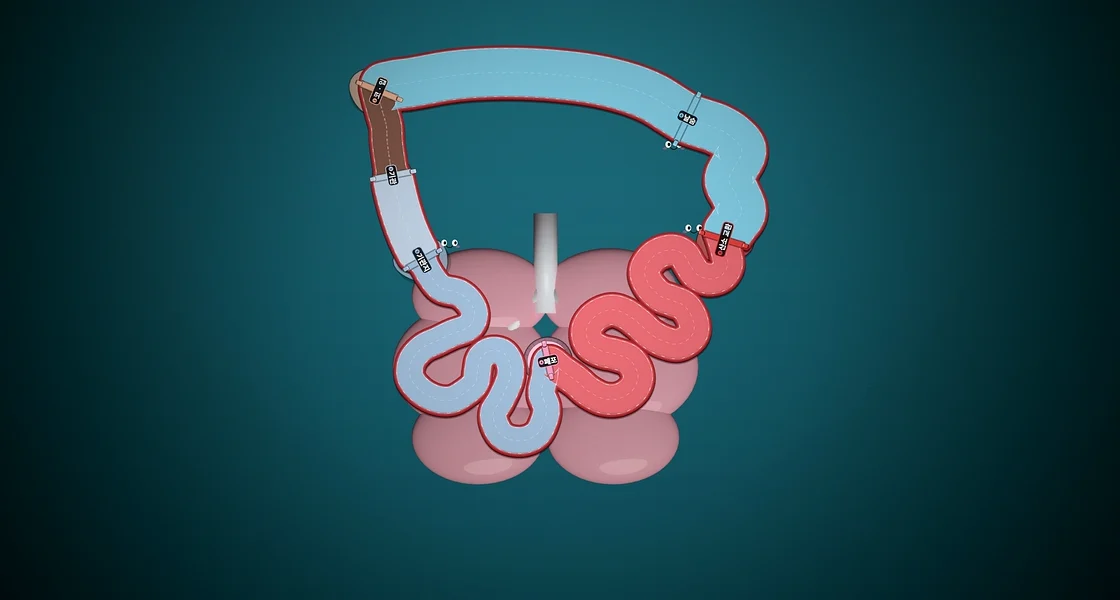
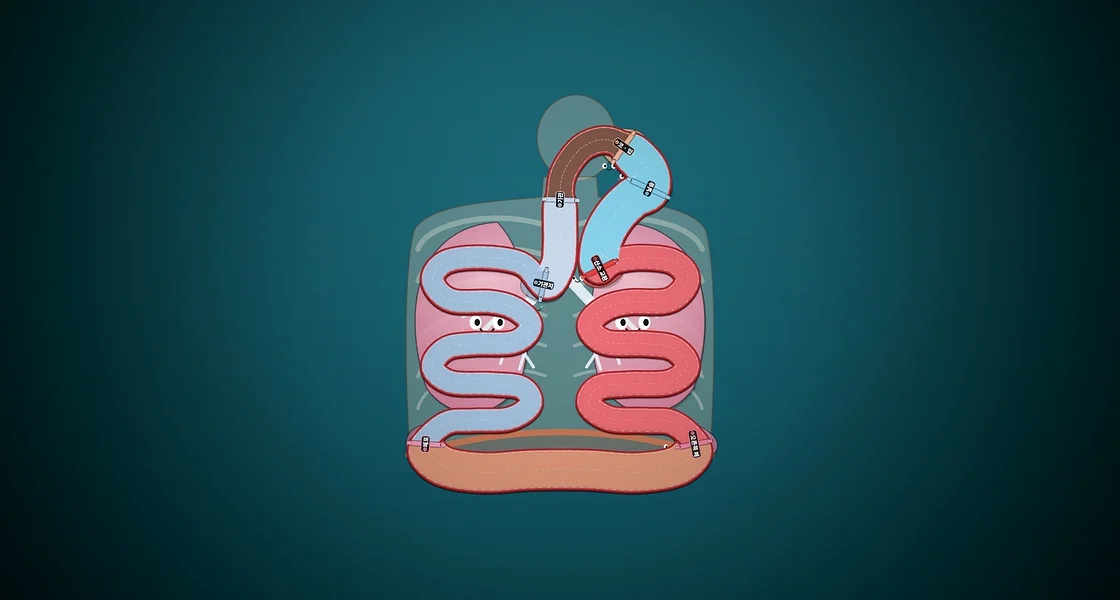
버전 115

Changed region(s): [[0.3125, 0.06, 0.6875, 0.84]]

diff --git a/index.html b/index.html
@@ -2105,6 +2105,15 @@ Object.assign(EN, {
 '남은 물을 빨아들이고 나머지를 내보냅니다.': 'It absorbs the remaining water and sends the rest out.',
 
 // ── 호흡계
+'왼쪽 세기관지': 'Left bronchioles', '공기주머니': 'Air sacs', '가로막': 'Diaphragm', '오른쪽 폐': 'Right lung', '코로 나감': 'Out through the nose',
+'왼쪽 폐 속으로 갈라지며 파고드는 가는 길': 'A narrow path branching deep into the left lung',
+'포도송이 모양의 작은 공기주머니. 폐 하나에 수억 개가 있어 표면적이 아주 넓습니다.': 'Tiny grape-like air sacs. Each lung has hundreds of millions, so the surface area is huge.',
+'폐 아래의 돔 모양 근육. 들숨에 내려가고 날숨에 올라갑니다': 'The dome-shaped muscle under the lungs. It moves down as you breathe in and up as you breathe out',
+'오른쪽 폐는 세 덩어리, 왼쪽 폐는 심장 자리 때문에 두 덩어리로 조금 작습니다.': 'The right lung has three lobes; the left has two and is a little smaller to make room for the heart.',
+'폐포 송이송이를 그물처럼 감고 올라가는 아주 가는 혈관': 'Tiny blood vessels wrapping the air sacs like a net as you climb',
+'연골 고리가 받쳐 주어 찌그러지지 않는 곧은 공기 길': 'A straight airway held open by rings of cartilage',
+'기관이 좌우 폐로 갈라지는 지점. 여기서부터 나뭇가지처럼 점점 가늘어집니다.': 'Where the trachea splits toward both lungs. From here it branches like a tree and gets narrower.',
+'가로막은 올라가고 갈비뼈는 내려가며 가슴 속 공간이 좁아져 공기가 밀려 나갑니다.': 'The diaphragm rises and the ribs drop, so the chest gets smaller and air is pushed out.',
 '산소와 이산화탄소가 교환되는 곳은?': 'Where are oxygen and carbon dioxide exchanged?',
 '표면적이 아주 넓어 기체 교환에 유리합니다.': 'Their huge surface area makes gas exchange easy.',
 '들숨을 쉴 때 가로막은?': 'When you breathe in, the diaphragm...',
@@ -2209,6 +2218,16 @@ Object.assign(EN, {
    맨 위가 지금 판이다. 아래 CHANGES[0].v 가 화면 왼쪽 아래 숫자가 된다 —
    판을 올릴 때는 여기 한 줄만 새로 얹으면 된다. */
 const CHANGES = [
+    { v: 115, d: '9월 11일', t: [
+        '호흡계 서킷을 새로 만들었다 — 교과서 그림처럼 코 → 기관 → 기관지 → 왼쪽 폐 → 가로막 → 오른쪽 폐 → 날숨',
+        'Respiratory circuit rebuilt like the textbook picture: nose, trachea, bronchi, left lung, diaphragm, right lung, exhale',
+        '숨을 쉬면 폐가 부풀고, 가로막이 내려가고, 갈비뼈가 올라간다',
+        'As it breathes, the lungs inflate, the diaphragm moves down and the ribs rise',
+        '너무 꼬불거리던 길을 정리했다 — 폐 속만 지그재그, 기관 · 가로막 · 날숨 길은 시원하게',
+        'Much less twisty: zigzags only inside the lungs, with open straights elsewhere',
+        '날숨 설명을 바로잡았다 — 날숨에 갈비뼈는 내려간다',
+        'Fixed the exhale explanation: the ribs move down when you breathe out'
+    ] },
     { v: 114, d: '9월 11일', t: [
         '신경 · 백혈구 · 산소 · ATP · DNA 카트를 가상 팀 포뮬러카로 바꿨다 — 실제 차를 닮은 그림을 뺐다',
         'Nerve, White Blood Cell, Oxygen, ATP and DNA karts are now fictional formula cars (no real-car look-alikes)',
@@ -2736,70 +2755,70 @@ const SYSTEMS = {
            코스 자체는 급커브 35% 로 이미 촘촘해서, 굽이를 더 넣는 대신 바퀴로 맞춘다. */
         id: 'respiratory', name: '호흡계 서킷', laps: 5, closed: true, halfWidth: 182,
         grass: ['#2c7484', '#1c5563'], accent: '#8fd0e8',
-        // 숨의 길 : 들숨은 갈수록 좁아지고(코→기관→기관지→세기관지),
-        //           폐포 그물에서 실컷 감았다가, 날숨은 시원하게 뻗어 나간다.
+        /* 2026-09-11 다시 만듦 — 사용자가 준 교과서 그림(몸 앞모습 : 코 · 기관 · 기관지 · 폐 · 가로막) 그대로.
+           코로 들어와 기관을 곧게 내려가고, 기관지에서 왼쪽 폐로 들어가 세기관지를 지그재그로 내려간 뒤,
+           가로막을 따라 오른쪽 폐로 건너가 폐포 모세혈관을 타고 올라가 산소를 바꾸고, 날숨 길로 코에 돌아온다.
+           예전 코스는 방향 전환 44번(순환계 18번)으로 너무 꼬불거렸다 — 폐 안만 지그재그, 나머지는 시원하게.
+           좌표 기준 : 몸 가운데 x = 2200. 왼쪽 폐 x 700~1950, 오른쪽 폐 x 2450~3700, 폐 y 1500~3650, 가로막 길 y ≈ 4000. */
         landmarks: [
-            { type: 'lungs', at: [2100, 2900], r: 1150 }
+            { type: 'chest', at: [2200, 2300], r: 2100 }
         ],
         flow: [
-            { name: '코 · 입', at: [640, 520], color: '#f0b8a0', role: '공기 흡입', blob: 260,
+            { name: '코 · 입', at: [2900, 620], color: '#f0b8a0', role: '공기 흡입', blob: 260,
               info: '코털과 점액이 먼지를 거르고, 공기를 따뜻하고 촉촉하게 만들어 줍니다.',
               seg: { name: '인두 · 후두', color: '#e0a68e', wMul: .72, tunnel: true,
                      desc: '목구멍의 좁은 통로. 음식은 식도로, 공기는 기관으로 갈라집니다' },
-              via: [[666, 670], [707, 820], [716, 963], [736, 1116]] },
+              via: [[2700, 540], [2480, 600], [2320, 760], [2220, 960]] },
 
-            { name: '기관', at: [760, 1260], color: '#c9d6e8', role: '공기 길', blob: 0,
+            { name: '기관', at: [2200, 1200], color: '#c9d6e8', role: '공기 길', blob: 0,
               chamber: { w: 260, h: 250, wall: 44, tint: '#dce6f2' },
               pump: { power: .6, label: '들숨!', desc: '가로막이 내려가며 공기가 쑥 빨려 들어옵니다.' },
               info: '고리 모양 연골이 있어 눌려도 찌그러지지 않는 튼튼한 공기 통로입니다.',
               seg: { name: '기관', color: '#c9d6e8', wMul: .95,
-                     desc: '연골 고리가 받쳐 주어 절대 찌그러지지 않는 공기 길' },
-              via: [[794, 1417], [834, 1569], [886, 1724], [949, 1868]] },
+                     desc: '연골 고리가 받쳐 주어 찌그러지지 않는 곧은 공기 길' },
+              via: [[2200, 1450], [2200, 1700], [2170, 1930]] },
 
-            { name: '기관지', at: [1020, 2000], color: '#a8c0da', role: '좌우 분기', blob: 240,
-              info: '기관이 좌우 폐로 갈라지는 지점. 여기서부터 점점 가늘어집니다.',
-              seg: { name: '세기관지', color: '#a8c0da', wMul: .62,
-                     desc: '나뭇가지처럼 자꾸 갈라지며 점점 가늘어지는 길' },
-              /* 이웃 고리끼리 도로 폭보다 가까웠던 것을 벌렸다 (relax.js, 겹침 1289 → 0). */
-              via: [[1100, 2143], [1191, 2246], [1343, 2287], [1439, 2370], [1480, 2473],
-                    [1431, 2582], [1281, 2643], [1159, 2702], [1029, 2764], [930, 2877],
-                    [916, 3019], [1004, 3138], [1138, 3212], [1276, 3222], [1397, 3157],
-                    [1486, 3074], [1505, 2966], [1529, 2858], [1617, 2793], [1726, 2809],
-                    [1788, 2900], [1793, 3010], [1759, 3114], [1699, 3237], [1643, 3335],
-                    [1666, 3454], [1742, 3550], [1894, 3578], [2025, 3521], [2093, 3389],
-                    [2106, 3280], [2065, 3163], [2092, 3021]] },
+            { name: '기관지', at: [2020, 2130], color: '#a8c0da', role: '좌우 분기', blob: 240,
+              info: '기관이 좌우 폐로 갈라지는 지점. 여기서부터 나뭇가지처럼 점점 가늘어집니다.',
+              seg: { name: '왼쪽 세기관지', color: '#a8c0da', wMul: .62,
+                     desc: '왼쪽 폐 속으로 갈라지며 파고드는 가는 길' },
+              /* 판 시간 140초로 짧고 밋밋했다(순환계 187초) → 세 번이던 지그재그를 다섯 번으로. 줄 간격 ≈ 440 (도로 폭 226) */
+              via: [[1780, 1900], [1350, 1830], [950, 1880], [800, 2080], [1000, 2300],
+                    [1450, 2320], [1720, 2400], [1880, 2580], [1700, 2760], [1250, 2780],
+                    [950, 2830], [800, 3030], [1000, 3200], [1450, 3220], [1780, 3260],
+                    [1880, 3440], [1650, 3600], [1250, 3620], [950, 3650]] },
 
-            { name: '폐포', at: [2120, 2880], color: '#f2a0c0', role: '기체 교환', blob: 0,
+            { name: '폐포', at: [720, 3880], color: '#f2a0c0', role: '공기주머니', blob: 0,
               chamber: { w: 360, h: 350, wall: 34, tint: '#f7b8d0' },
-              info: '포도송이 모양의 작은 공기주머니. 여기서 산소와 이산화탄소가 자리를 바꿉니다.',
-              seg: { oxygen: true, name: '폐포 모세혈관', color: '#e2707a', wMul: .7,
-                     desc: '폐포 송이송이를 그물처럼 감고 도는 아주 가는 혈관' },
-              // 포도송이를 하나하나 감아 도는 그물망 — 이 코스에서 드리프트가 가장 많이 나오는 구간
-              /* 이웃 고리끼리 도로 폭보다 가까웠던 것을 벌렸다 (relax.js, 겹침 1289 → 0). */
-              via: [[2244, 2967], [2368, 3055], [2475, 3146], [2611, 3212], [2752, 3207],
-                    [2869, 3126], [2907, 3000], [2837, 2873], [2710, 2822], [2589, 2794],
-                    [2482, 2726], [2457, 2602], [2533, 2491], [2668, 2434], [2793, 2466],
-                    [2914, 2551], [3019, 2647], [3144, 2713], [3268, 2733], [3380, 2657],
-                    [3395, 2545], [3323, 2408], [3202, 2352], [3096, 2310], [2997, 2202],
-                    [2967, 2079], [3057, 1957], [3196, 1910], [3303, 1948], [3362, 2041],
-                    [3428, 2129], [3532, 2164], [3638, 2133], [3693, 2038], [3676, 1929]] },
+              info: '포도송이 모양의 작은 공기주머니. 폐 하나에 수억 개가 있어 표면적이 아주 넓습니다.',
+              seg: { name: '가로막', color: '#d99a82', wMul: 1.1,
+                     desc: '폐 아래의 돔 모양 근육. 들숨에 내려가고 날숨에 올라갑니다' },
+              /* 폐 맨 아랫줄과 가로막 길 사이가 380 이라 양쪽 모서리가 급한 머리핀이 되어 길이 접혔다(갇힘 1, 게이트 10/15)
+                 → 가로막 길을 내려 간격 510, 모서리 지점을 바깥 아래로 빼서 크게 돈다 */
+              via: [[900, 4110], [1350, 4190], [1900, 4160], [2500, 4160], [3050, 4190], [3500, 4110]] },
 
-            { name: '산소 교환', at: [3660, 1820], color: '#e04a4a', role: '혈액에 전달', blob: 250,
+            { name: '오른쪽 폐', at: [3680, 3880], color: '#e88aa8', role: '오른쪽 폐', blob: 240,
+              info: '오른쪽 폐는 세 덩어리, 왼쪽 폐는 심장 자리 때문에 두 덩어리로 조금 작습니다.',
+              seg: { oxygen: true, name: '폐포 모세혈관', color: '#e2707a', wMul: .66,
+                     desc: '폐포 송이송이를 그물처럼 감고 올라가는 아주 가는 혈관' },
+              via: [[3450, 3650], [3150, 3620], [2750, 3600], [2520, 3440], [2620, 3260], [2950, 3220],
+                    [3400, 3200], [3600, 3030], [3450, 2830], [3150, 2780], [2700, 2760],
+                    [2520, 2580], [2680, 2400], [2950, 2320], [3400, 2300], [3600, 2080],
+                    [3450, 1880], [3100, 1830], [2800, 1870]] },
+
+            { name: '산소 교환', at: [2640, 1960], color: '#e04a4a', role: '혈액에 전달', blob: 250,
               info: '산소는 혈액으로, 이산화탄소는 폐포로. 농도 차이 때문에 저절로 이동합니다.',
               seg: { name: '날숨 통로', color: '#8fd0e8', wMul: 1.15,
                      desc: '이산화탄소를 실은 공기가 시원하게 빠져나가는 넓은 길' },
-              via: [[3740, 1690], [3814, 1573], [3763, 1430], [3703, 1300], [3755, 1179],
-                   [3817, 1041], [3733, 931], [3608, 853], [3475, 807]] },
+              via: [[2660, 1650], [2800, 1380], [3000, 1180]] },
 
-            { name: '날숨', at: [3340, 760], color: '#8fd0e8', role: '이산화탄소 배출', blob: 250,
+            /* 날숨 설명을 바로잡았다 : 예전 글은 '가로막과 갈비뼈가 올라가며' — 날숨에 갈비뼈는 내려간다 */
+            { name: '날숨', at: [3180, 1080], color: '#8fd0e8', role: '이산화탄소 배출', blob: 250,
               pump: { power: 1, label: '날숨! 후—', desc: '가로막이 올라가며 가슴이 좁아져 공기가 힘차게 밀려 나갑니다.' },
-              info: '가로막과 갈비뼈가 올라가며 가슴 속 공간이 좁아져 공기가 밀려 나갑니다.',
-              seg: { name: '기도 복귀', color: '#8fd0e8', wMul: 1.15,
+              info: '가로막은 올라가고 갈비뼈는 내려가며 가슴 속 공간이 좁아져 공기가 밀려 나갑니다.',
+              seg: { name: '코로 나감', color: '#8fd0e8', wMul: 1.15,
                      desc: '숨을 내쉬고 나면 다시 들이마실 차례. 숨은 쉬지 않고 반복됩니다' },
-              via: [[3210, 683], [3072, 596], [2946, 537], [2815, 491], [2660, 449],
-                   [2518, 420], [2371, 398], [2221, 382], [2091, 371], [1936, 363],
-                   [1782, 360], [1652, 361], [1503, 367], [1360, 378], [1209, 397],
-                   [1067, 423], [924, 449], [765, 472]] }
+              via: [[3150, 860]] }
         ],
         pickups: [
             { icon: '산소', name: '산소',       color: '#6ec6f2', effect: 'turbo', img: 'rbc',
@@ -5952,6 +5971,75 @@ function fitKidney(lm) {
              ang, len, wid, flip };
 }
 
+/* ---- 호흡계 가슴 그림 (사용자가 준 교과서 그림 : 코 · 기관 · 기관지 · 폐 · 가로막) ----
+   도로 아래에 깔린다. 원점은 가슴 한가운데(landmark at = [2200, 2300]), 좌표는 맵 단위 그대로라
+   코스 좌표와 1:1 로 맞는다 (호흡계 flow 위 주석의 기준 참고).
+   숨 한 번 : 들숨이면 폐가 부풀고 · 가로막이 내려가고 · 갈비뼈가 올라간다. 날숨이면 반대.
+   (사용자 : "폐 부풀려지고 가로막 내려오고 늑골 올라가고 그런 표현도 들어가게") */
+function drawChest(g, t, i) {
+    const ph = (Math.sin(t * .9) + 1) / 2;               // 0 날숨 끝 → 1 들숨 끝
+    g.save();
+    g.lineJoin = 'round'; g.lineCap = 'round';
+    // 몸 윤곽 : 머리는 오른쪽을 본다 (코가 오른쪽 위 — 코스가 코에서 출발한다)
+    g.fillStyle = 'rgba(247,222,203,.30)'; g.strokeStyle = 'rgba(120,70,50,.35)'; g.lineWidth = 16;
+    g.beginPath(); g.ellipse(180, -1780, 430, 470, 0, 0, TAU); g.fill(); g.stroke();          // 머리
+    g.beginPath(); g.moveTo(560, -1900); g.quadraticCurveTo(790, -1700, 590, -1610);          // 코
+    g.closePath(); g.fill(); g.stroke();
+    g.beginPath();                                                                             // 목 · 어깨 · 몸통
+    g.moveTo(-180, -1350); g.lineTo(-200, -1130);
+    g.bezierCurveTo(-700, -1080, -1450, -1060, -1600, -760);
+    g.bezierCurveTo(-1720, -300, -1700, 900, -1640, 1750);
+    g.quadraticCurveTo(0, 2000, 1640, 1750);
+    g.bezierCurveTo(1700, 900, 1720, -300, 1600, -760);
+    g.bezierCurveTo(1450, -1060, 700, -1080, 420, -1130);
+    g.lineTo(400, -1350); g.closePath(); g.fill(); g.stroke();
+    // 갈비뼈 : 들숨에 올라간다
+    g.strokeStyle = 'rgba(255,248,236,.30)';
+    for (let k = 0; k < 6; k++) {
+        const y = -760 + k * 330 - ph * 60;
+        g.lineWidth = 60 - k * 5;
+        [-1, 1].forEach(sd => {
+            g.beginPath(); g.moveTo(sd * 160, y);
+            g.bezierCurveTo(sd * 700, y - 150 - ph * 30, sd * 1450, y - 40, sd * 1560, y + 260 + k * 20);
+            g.stroke();
+        });
+    }
+    // 가로막 : 들숨에 내려간다 (돔 꼭대기가 150 만큼)
+    const dome = 1050 + ph * 150;
+    g.fillStyle = 'rgba(150,80,60,.28)';
+    g.beginPath(); g.moveTo(-1660, 1700); g.quadraticCurveTo(0, dome, 1660, 1700);
+    g.lineTo(1640, 1780); g.quadraticCurveTo(0, 2000, -1640, 1780); g.closePath(); g.fill();
+    g.strokeStyle = '#c47a5e'; g.lineWidth = 70;
+    g.beginPath(); g.moveTo(-1660, 1700); g.quadraticCurveTo(0, dome, 1660, 1700); g.stroke();
+    // 폐 : 들숨에 부푼다
+    const LR = 1180, inflate = 1 + ph * .07;          // 폐 안 지그재그 다섯 줄을 덮는 크기
+    [-1, 1].forEach(side => {
+        g.save(); g.translate(side * 560, 180); g.scale(inflate, inflate);
+        g.save(); g.translate(14, 24); g.globalAlpha = .18; g.fillStyle = '#000'; lobePath(g, LR, side); g.fill(); g.restore();
+        const grd = g.createRadialGradient(side * LR * .2, -LR * .3, LR * .05, 0, 0, LR * 1.1);
+        grd.addColorStop(0, '#ffc6d8'); grd.addColorStop(1, '#dd7f9c');
+        g.globalAlpha = .85; lobePath(g, LR, side); g.fillStyle = grd; g.fill(); g.globalAlpha = 1;
+        g.strokeStyle = 'rgba(0,0,0,.4)'; g.lineWidth = 14; lobePath(g, LR, side); g.stroke();
+        g.restore();
+    });
+    // 기관 (연골 고리) · 기관지 가지
+    g.fillStyle = '#e8eef5'; g.strokeStyle = 'rgba(0,0,0,.42)'; g.lineWidth = 12;
+    g.beginPath(); g.roundRect(-115, -1380, 230, 1060, 60); g.fill(); g.stroke();
+    g.strokeStyle = 'rgba(120,140,170,.55)'; g.lineWidth = 16;
+    for (let y = -1320; y < -360; y += 80) { g.beginPath(); g.moveTo(-100, y); g.quadraticCurveTo(0, y + 26, 100, y); g.stroke(); }
+    const branch = (x, y, ang, len, w, d) => {
+        const x2 = x + Math.cos(ang) * len, y2 = y + Math.sin(ang) * len;
+        g.lineWidth = w; g.beginPath(); g.moveTo(x, y); g.lineTo(x2, y2); g.stroke();
+        if (d > 0) { branch(x2, y2, ang - .45, len * .72, w * .66, d - 1); branch(x2, y2, ang + .45, len * .72, w * .66, d - 1); }
+    };
+    g.strokeStyle = 'rgba(232,238,245,.9)';
+    branch(0, -340, Math.PI / 2 + .75, 480, 120, 3);        // 화면 왼쪽 폐로
+    branch(0, -340, Math.PI / 2 - .75, 480, 120, 3);        // 화면 오른쪽 폐로
+    // 다른 맵과 같은 귀여운 얼굴
+    [-1, 1].forEach(side => drawFace(g, side * 800, 300, 300, i + side));
+    g.restore();
+}
+
 function drawLandmarks(g, inView) {
     const lms = track.sys.landmarks;
     if (!lms) return;
@@ -6113,6 +6201,8 @@ function drawLandmarks(g, inView) {
                 drawFace(g, side * R * .22, R * .06, R * .26, i + side);
                 g.restore();
             });
+        } else if (lm.type === 'chest') {
+            drawChest(g, t, i);
         }
         g.restore();
     });
